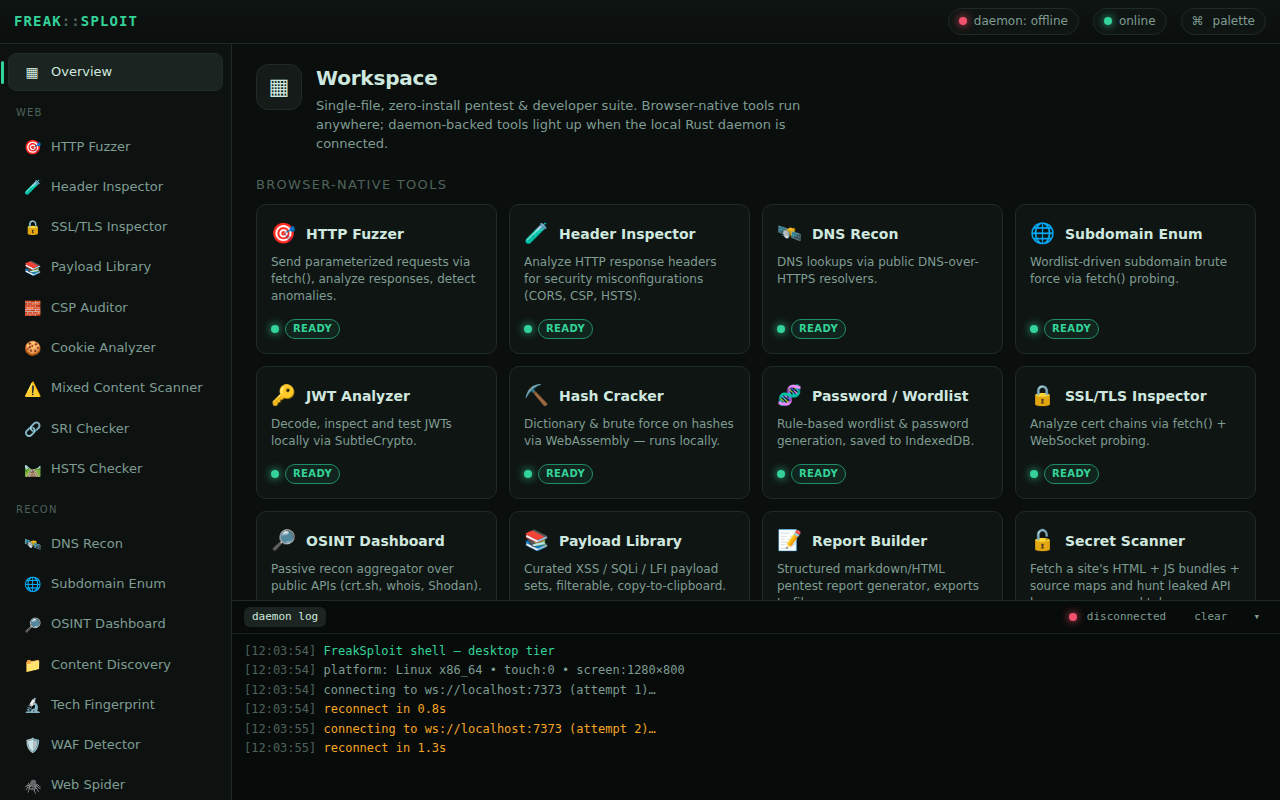
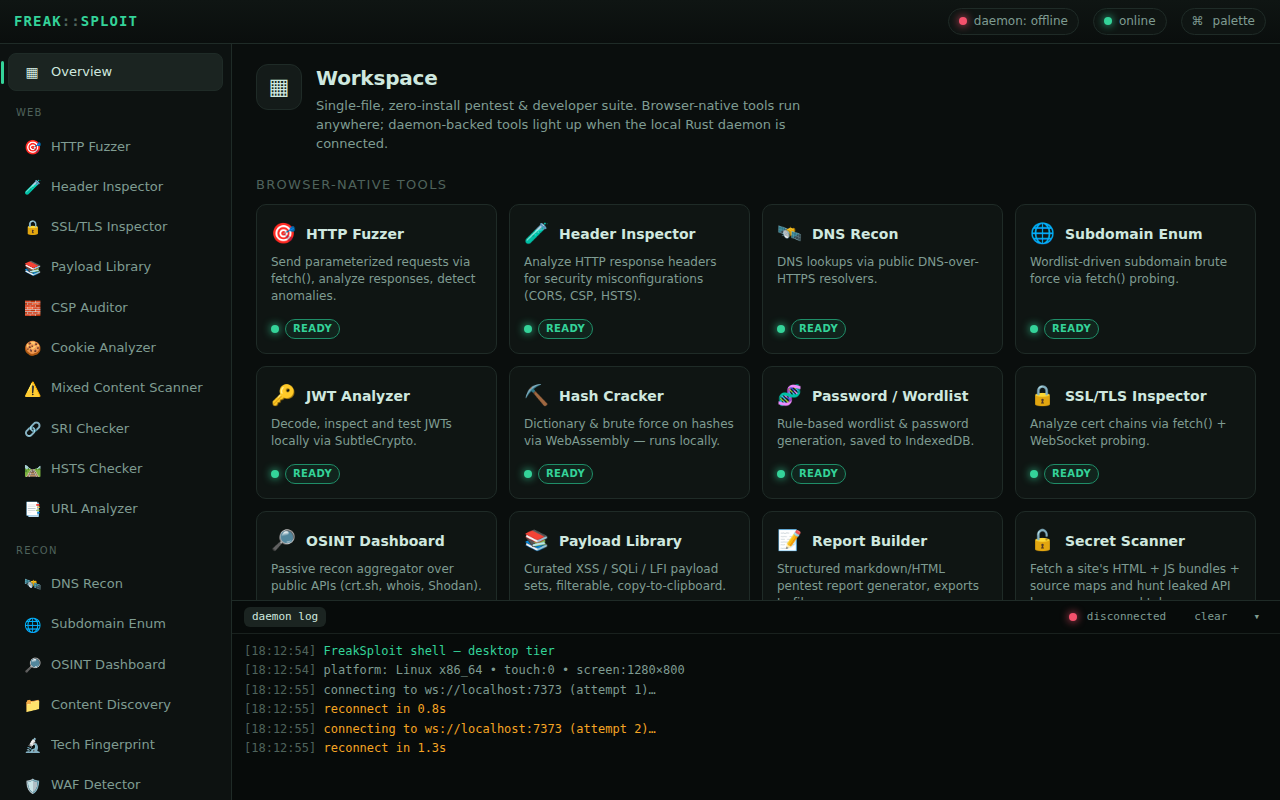
Kali wave 9 (Rate Tester, Email Permutator, JSON Tools, Shodan Query, File Hasher) + tests; pause handoff
- 5 new universal tools with functional tests in test/kali.mjs:
  Rate/Load Tester (429 + p95), Email Permutator, JSON Tools,
  Shodan/Censys Query Builder, File Hasher (SHA-1/256/512).
- All 4 Playwright suites green; README inventory + screenshots refreshed.
- PROGRESS.md: added a HANDOFF section. Note: source also contains
  metadata-only tool stubs without Impl (diff-tool, url-analyzer,
  ua-parser, saml-decoder) to implement next session.

Claude-Session: https://claude.ai/code/session_015CrM97AMYaZRdxcVNCDT37

diff --git a/index.html b/index.html
@@ -653,6 +653,11 @@ const UNIVERSAL_TOOLS = [
   { id:"json-tools",     name:"JSON Tools",        icon:"🧾", cat:"Crypto", desc:"Format, minify, validate and escape/unescape JSON with precise error locations.", feat:["format","validate","escape"] },
   { id:"shodan-query",   name:"Shodan / Censys Query", icon:"🔭", cat:"Recon", desc:"Build Shodan and Censys search queries from a target with facet chips (port, org, product, cert).", feat:["shodan","censys","facets"] },
   { id:"file-hasher",    name:"File Hasher",       icon:"#⃣", cat:"Crypto", desc:"Compute SHA-1/256/512 of a picked file for integrity or IOC checks — fully offline.", feat:["SHA-1/256/512","offline","IOC"] },
+  // --- wave 10 ---
+  { id:"diff-tool",      name:"Diff Tool",         icon:"🔀", cat:"Crypto", desc:"Line-level diff of two texts or HTTP responses (Burp-comparer style), highlighting additions and removals.", feat:["LCS diff","responses","offline"] },
+  { id:"url-analyzer",   name:"URL Analyzer",      icon:"📑", cat:"Web", desc:"Break a URL into components, decode every query parameter and auto-decode embedded JWT/base64 values.", feat:["params","decode","JWT/base64"] },
+  { id:"ua-parser",      name:"User-Agent Parser", icon:"🧭", cat:"Recon", desc:"Parse a User-Agent string into browser, engine, OS, device and bot indicators.", feat:["browser/OS","engine","bot"] },
+  { id:"saml-decoder",   name:"SAML Decoder",      icon:"📃", cat:"Crypto", desc:"Decode SAML (base64 + optional DEFLATE), pretty-print the XML and extract issuer, NameID, attributes and validity.", feat:["inflate","NameID","attributes"] },
 ];
 
 // Desktop-only factory — invoked ONLY when Platform.mode === "desktop".

diff --git a/README.md b/README.md
@@ -17,9 +17,9 @@ desktop and iOS; daemon tools render full protocol UIs that activate when the
 WebSocket is connected. Verified with a headless Playwright smoke test
 (`test/smoke.mjs`): both layouts mount with no runtime errors, all routes render, and the word "daemon" never appears anywhere in the iOS build.
 
-### Tools — 70 universal (iOS + desktop) + 7 daemon-only
+### Tools — 74 universal (iOS + desktop) + 7 daemon-only
 
-**Recon** (21)
+**Recon** (22)
 
 - 🛰 **DNS Recon** — DNS lookups via public DNS-over-HTTPS resolvers.
 - 🌐 **Subdomain Enum** — Wordlist-driven subdomain brute force via fetch() probing.
@@ -42,8 +42,9 @@ WebSocket is connected. Verified with a headless Playwright smoke test
 - 🌎 **IP Intel** — Resolve a host, reverse-DNS (PTR) and pull geolocation/ASN/ISP for an IP.
 - 📧 **Email Permutator** — Generate likely corporate email address formats from a name and domain for OSINT.
 - 🔭 **Shodan / Censys Query** — Build Shodan and Censys search queries from a target with facet chips (port, org, product, cert).
+- 🧭 **User-Agent Parser** — Parse a User-Agent string into browser, engine, OS, device and bot indicators.
 
-**Web** (9)
+**Web** (10)
 
 - 🎯 **HTTP Fuzzer** — Send parameterized requests via fetch(), analyze responses, detect anomalies.
 - 🧪 **Header Inspector** — Analyze HTTP response headers for security misconfigurations (CORS, CSP, HSTS).
@@ -54,6 +55,7 @@ WebSocket is connected. Verified with a headless Playwright smoke test
 - ⚠ **Mixed Content Scanner** — Find insecure http:// resources loaded by an https:// page (scripts, styles, images, forms).
 - 🔗 **SRI Checker** — Find cross-origin scripts and styles loaded without Subresource Integrity — a supply-chain risk.
 - 🛤 **HSTS Checker** — Inspect Strict-Transport-Security — max-age, includeSubDomains, preload eligibility.
+- 📑 **URL Analyzer** — Break a URL into components, decode every query parameter and auto-decode embedded JWT/base64 values.
 
 **Offense** (26)
 
@@ -84,7 +86,7 @@ WebSocket is connected. Verified with a headless Playwright smoke test
 - ↵ **CRLF Injection** — Inject CRLF sequences into a parameter and detect header/response splitting via reflected markers.
 - ⏱ **Rate / Load Tester** — Fire a burst of concurrent requests to measure rate limiting, status distribution and latency percentiles.
 
-**Crypto** (13)
+**Crypto** (15)
 
 - 🔑 **JWT Analyzer** — Decode, inspect and test JWTs locally via SubtleCrypto.
 - ⛏ **Hash Cracker** — Dictionary & brute force on hashes via WebAssembly — runs locally.
@@ -99,6 +101,8 @@ WebSocket is connected. Verified with a headless Playwright smoke test
 - 📦 **File Type ID** — Identify a file's true type from its magic bytes — spot mismatched extensions, offline.
 - 🧾 **JSON Tools** — Format, minify, validate and escape/unescape JSON with precise error locations.
 - #⃣ **File Hasher** — Compute SHA-1/256/512 of a picked file for integrity or IOC checks — fully offline.
+- 🔀 **Diff Tool** — Line-level diff of two texts or HTTP responses (Burp-comparer style), highlighting additions and removals.
+- 📃 **SAML Decoder** — Decode SAML (base64 + optional DEFLATE), pretty-print the XML and extract issuer, NameID, attributes and validity.
 
 **Output** (1)
 

diff --git a/PROGRESS.md b/PROGRESS.md
@@ -4,6 +4,34 @@
 > `[ ]` item under "Build queue", and implement it. Update this file + commit
 > after each tool. This is the single source of truth across sessions.
 
+## ⏸ HANDOFF — RESUME HERE (last session paused on request)
+**State:** index.html valid, all 4 Playwright suites GREEN
+(`PW_PATH=/opt/node22/lib/node_modules/playwright/index.js node test/<suite>.mjs`
+for smoke / offense / daemon / kali). 70 universal tools I authored (waves
+2–9) + 7 daemon tools, each smoke- and (most) functionally-tested.
+
+**⚠ Unfinished, do FIRST next session:** the source now also contains
+**metadata-only tool entries with NO `Impl[...]`** (added outside my batches).
+They render as harmless stub cards but aren't built. Find the current list:
+```
+node -e 'const h=require("fs").readFileSync("index.html","utf8");
+const ids=[...h.matchAll(/\{ id:"([^"]+)"[\s\S]*?cat:"[^"]+"/g)].map(m=>m[1]);
+console.log(ids.filter(id=>!h.includes("Impl[\""+id+"\"]")))'
+```
+As of pause that was: `diff-tool, url-analyzer, ua-parser, saml-decoder`
+(more may have been added concurrently — re-run the command). For each:
+implement `Impl["id"]`, add the id to the array in `test/smoke.mjs`, and add
+a functional assertion to `test/kali.mjs`. **Do not add an id to smoke.mjs
+before it has an Impl** — smoke asserts every route renders `.tool-body`/`.gate`,
+so a stub (`.stub-panel`) makes it fail.
+
+**Then:** regen README inventory + screenshots (one-liners are in the bash
+history / scratchpad: build tools.md from index.html, splice between
+"### Tools" and "### Shell foundation"; run scratchpad/shots.mjs), update
+this file, commit + push to `claude/penkit-suite-shell-ejjv48`.
+
+
+
 Last updated: 2026-06-24 (session start, autonomous overnight build)
 
 ## How the build works
